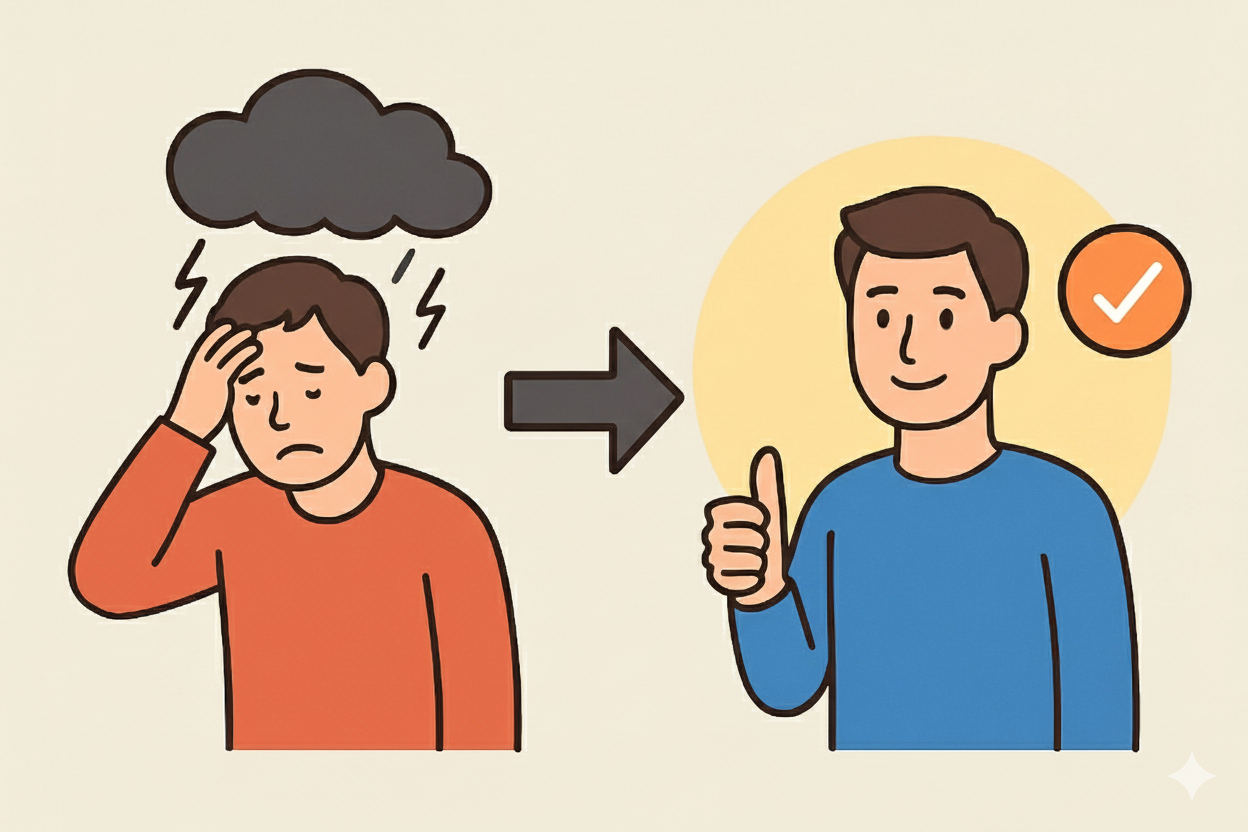
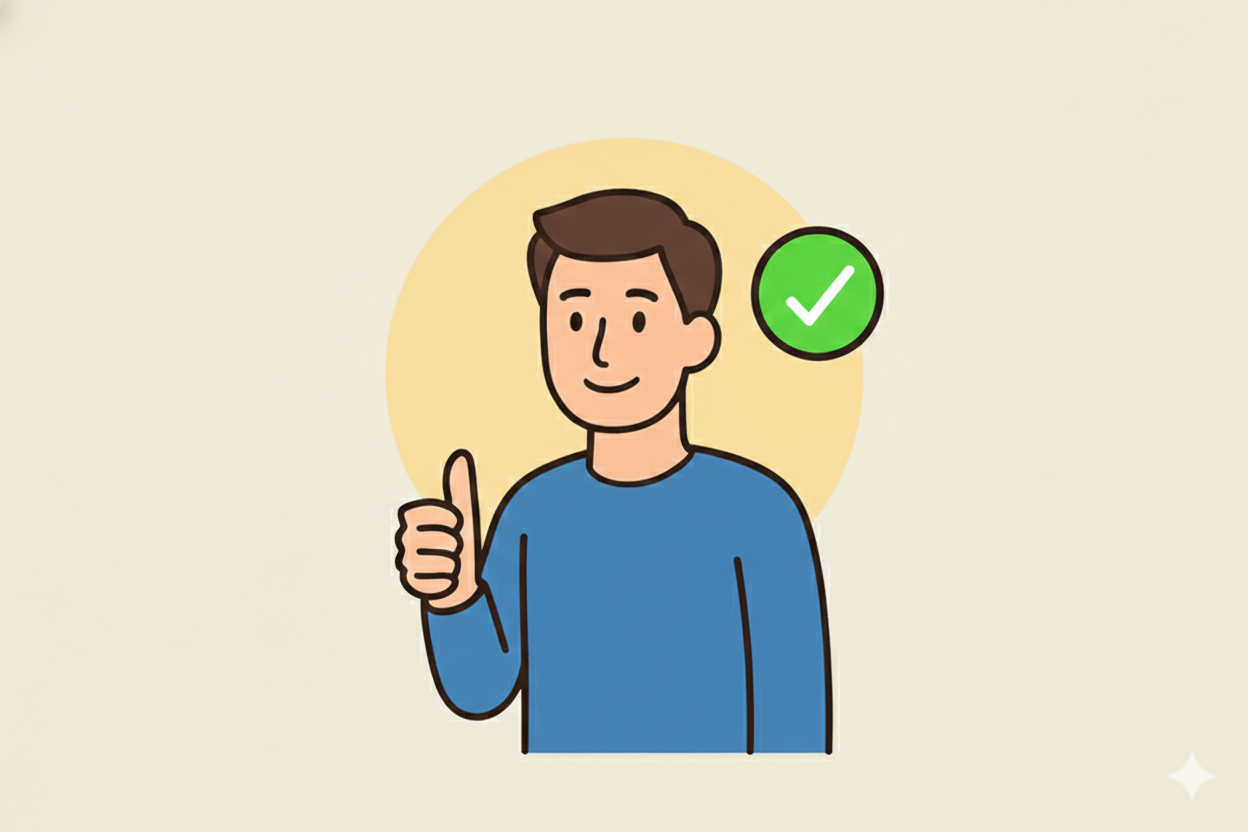
Feat: modify prompt for tone and message and replace problem-solving image with new

diff --git a/lib/prompts/image.ts b/lib/prompts/image.ts
@@ -289,11 +289,16 @@ const getDynamicTonePrompt = (
 
     case 'energetic-vibrant':
       if (isSimpleStyle)
-        return 'High Contrast Neon Colors. Bold and dynamic color combinations. Electric and intense.';
+        return 'Bright and Vibrant Colors. Saturated primary colors, dynamic composition, full of life and movement.';
       const energeticVariations = [
-        'Neon Cyberpunk Lighting. Colorful neon lights (magenta and cyan), dark background, glowing effects, futuristic and intense. Color palette: Neon Purple, Cyan, Black.', // Cyberpunk
-        'Active Sunlight. Bright, hard sunlight (high noon), strong cast shadows, saturated colors, dynamic and powerful. Color palette: Orange, Vivid Blue, White.', // Sports
-        'Dynamic Studio Flash. High contrast colorful gels, motion blur suggestions, exciting and bold. Color palette: Electric Blue, Hot Pink, Vivid Purple.', // Studio Color
+        // A. 야외 활동/스포츠: 밝은 자연광, 건강한 에너지
+        'Active Outdoor Energy. Bright natural sunlight, clear blue sky, people in motion (jogging, cycling, sports). Fresh air feeling, healthy and dynamic lifestyle. Color palette: Sky Blue, Grass Green, Vibrant Orange.',
+        // B. 도시 라이프스타일: 활기찬 도시, 바쁜 일상 속 에너지
+        'Urban Vitality. Bustling city life, morning rush, coffee-to-go moments. Clean modern architecture, street energy without chaos. Bright daylight, optimistic urban mood. Color palette: Crisp White, Urban Blue, Warm Yellow.',
+        // C. 창의적 모멘텀: 아이디어가 터지는 순간, 영감
+        'Creative Momentum. Brainstorming energy, lightbulb moments, ideas flowing. Bright and inspiring workspace, sticky notes, whiteboards. Uplifting and motivational. Color palette: Sunny Yellow, Fresh Mint, Coral Orange.',
+        // D. 축제/이벤트: 파티, 축하, 즐거움
+        'Celebration Vibes. Festive atmosphere, confetti, balloons, joyful gathering. Party energy without being chaotic. Bright and cheerful celebration mood. Color palette: Party Pink, Bright Yellow, Confetti Multi-colors.',
       ];
       return selectOption(energeticVariations, variationIndex, randomSeed);
 
@@ -352,6 +357,7 @@ const getDynamicMessagePrompt = (
       const benefitVariations = [
         'Hero Shot Low Angle. The product is placed centrally, shot from a slightly low angle to make it look monumental and important. Rays of light or glow behind it.', // Hero
         'Visualizing the Intangible. Use floating icons or 3D elements around the product to represent abstract benefits (speed, security, growth). Magical realism style.', // Icons
+        'Radiating Benefits. The product at the center with multiple benefit icons or visual elements branching out from it via connecting lines or rays. Like a mind map showing all the advantages flowing from the product.', // Radiating
       ];
       // 라이프스타일 옵션은 사람이 있을 때 더 자연스러움 (없어도 가능은 하나 맥락상)
       if (!hasNoPerson) {
@@ -367,7 +373,7 @@ const getDynamicMessagePrompt = (
 
     case 'story':
       const storyVariations = [
-        'Three-Panel Layout. A subtle triptych (3 vertical sections) showing a sequence: 1. Start, 2. Action, 3. Result. Visual storytelling flow.', // Sequence
+        'Three-Panel Sequence. A triptych composition with 3 circular or rectangular sections showing a natural progression through visuals only.', // Sequence
         'Journey Path Composition. A winding road or path leading from a dark/uncertain foreground to a bright/successful background destination. The product is the vehicle or guide.', // Journey
         'Slice of Life Drama. A single frame that implies a larger story. A "decisive moment" full of context and narrative details. Like a movie still.', // Cinematic
       ];
